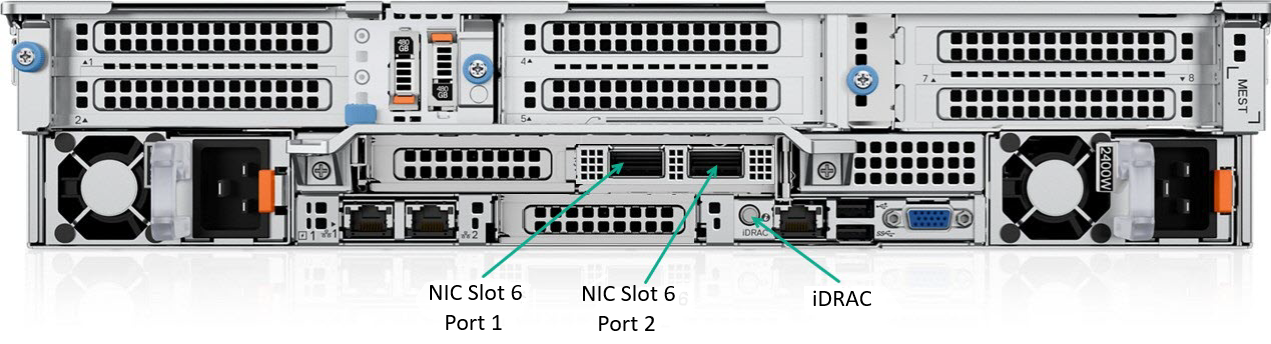
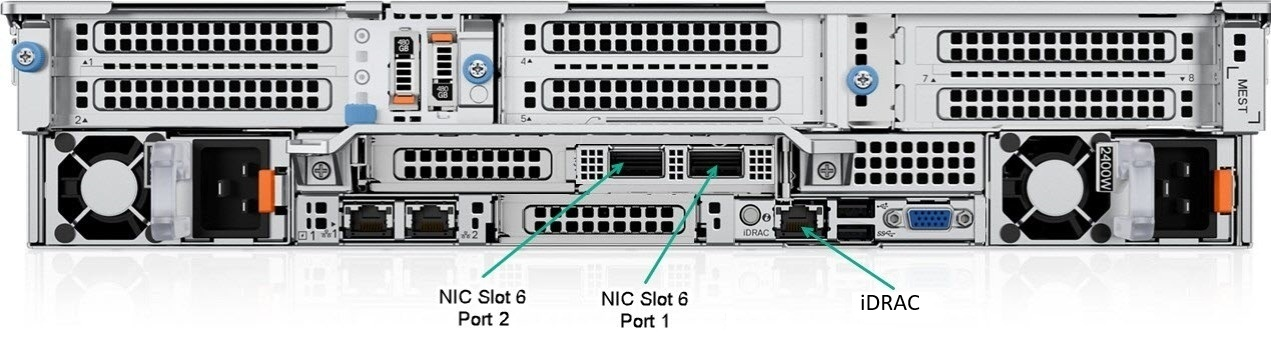
deploy: 8c70b3307bd2b78cb9c378cb6bf418709c1416d6

diff --git a/_print/docs/hub/index.html b/_print/docs/hub/index.html
@@ -5374,7 +5374,7 @@ Scale unit node to ToR-2 iDRAC cabling
 </ol>
 <p>The following figure shows the port locations for an AS-760 server.</p>
 <figure class="card rounded p-0 td-post-card mb-0 mt-0 border-0" style="max-width: 810px">
-<img class="card-img-top" style="margin-left:;" src="/azurestack-docs/docs/hub/nodeexpansion/16g/Prerequisites_PortLocations_hu_fed3086b0d617035.png" width="800" height="217" border="0">
+<img class="card-img-top" style="margin-left:;" src="/azurestack-docs/docs/hub/nodeexpansion/16g/Prerequisites_PortLocations_hu_a745a0bb1645a081.png" width="800" height="217" border="0">
 <figcaption class="card-body px-0 pt-0 pb-0" style="margin-left:;">
 <p class="card-text">
 <small class="text-body-secondary">

diff --git a/_print/docs/index.html b/_print/docs/index.html
@@ -5417,7 +5417,7 @@ Scale unit node to ToR-2 iDRAC cabling
 </ol>
 <p>The following figure shows the port locations for an AS-760 server.</p>
 <figure class="card rounded p-0 td-post-card mb-0 mt-0 border-0" style="max-width: 810px">
-<img class="card-img-top" style="margin-left:;" src="/azurestack-docs/docs/hub/nodeexpansion/16g/Prerequisites_PortLocations_hu_fed3086b0d617035.png" width="800" height="217" border="0">
+<img class="card-img-top" style="margin-left:;" src="/azurestack-docs/docs/hub/nodeexpansion/16g/Prerequisites_PortLocations_hu_a745a0bb1645a081.png" width="800" height="217" border="0">
 <figcaption class="card-body px-0 pt-0 pb-0" style="margin-left:;">
 <p class="card-text">
 <small class="text-body-secondary">

diff --git a/_print/docs/hub/nodeexpansion/16g/index.html b/_print/docs/hub/nodeexpansion/16g/index.html
@@ -410,7 +410,7 @@ Scale unit node to ToR-2 iDRAC cabling
 </ol>
 <p>The following figure shows the port locations for an AS-760 server.</p>
 <figure class="card rounded p-0 td-post-card mb-0 mt-0 border-0" style="max-width: 810px">
-<img class="card-img-top" style="margin-left:;" src="/azurestack-docs/docs/hub/nodeexpansion/16g/Prerequisites_PortLocations_hu_fed3086b0d617035.png" width="800" height="217" border="0">
+<img class="card-img-top" style="margin-left:;" src="/azurestack-docs/docs/hub/nodeexpansion/16g/Prerequisites_PortLocations_hu_a745a0bb1645a081.png" width="800" height="217" border="0">
 <figcaption class="card-body px-0 pt-0 pb-0" style="margin-left:;">
 <p class="card-text">
 <small class="text-body-secondary">

diff --git a/_print/docs/hub/nodeexpansion/index.html b/_print/docs/hub/nodeexpansion/index.html
@@ -376,7 +376,7 @@ Scale unit node to ToR-2 iDRAC cabling
 </ol>
 <p>The following figure shows the port locations for an AS-760 server.</p>
 <figure class="card rounded p-0 td-post-card mb-0 mt-0 border-0" style="max-width: 810px">
-<img class="card-img-top" style="margin-left:;" src="/azurestack-docs/docs/hub/nodeexpansion/16g/Prerequisites_PortLocations_hu_fed3086b0d617035.png" width="800" height="217" border="0">
+<img class="card-img-top" style="margin-left:;" src="/azurestack-docs/docs/hub/nodeexpansion/16g/Prerequisites_PortLocations_hu_a745a0bb1645a081.png" width="800" height="217" border="0">
 <figcaption class="card-body px-0 pt-0 pb-0" style="margin-left:;">
 <p class="card-text">
 <small class="text-body-secondary">

diff --git a/docs/hub/nodeexpansion/16g/index.html b/docs/hub/nodeexpansion/16g/index.html
@@ -690,7 +690,7 @@ Scale unit node to ToR-2 iDRAC cabling
 </ol>
 <p>The following figure shows the port locations for an AS-760 server.</p>
 <figure class="card rounded p-0 td-post-card mb-0 mt-0 border-0" style="max-width: 810px">
-<img class="card-img-top" style="margin-left:;" src="/azurestack-docs/docs/hub/nodeexpansion/16g/Prerequisites_PortLocations_hu_fed3086b0d617035.png" width="800" height="217" border="0">
+<img class="card-img-top" style="margin-left:;" src="/azurestack-docs/docs/hub/nodeexpansion/16g/Prerequisites_PortLocations_hu_a745a0bb1645a081.png" width="800" height="217" border="0">
 <figcaption class="card-body px-0 pt-0 pb-0" style="margin-left:;">
 <p class="card-text">
 <small class="text-body-secondary">
